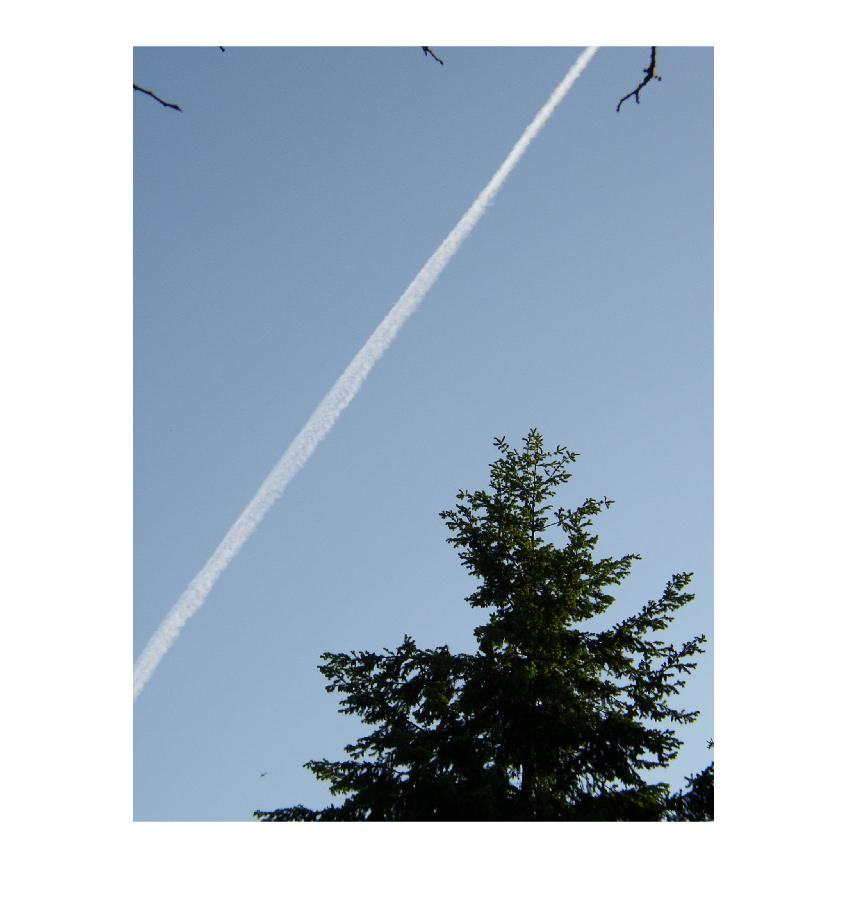
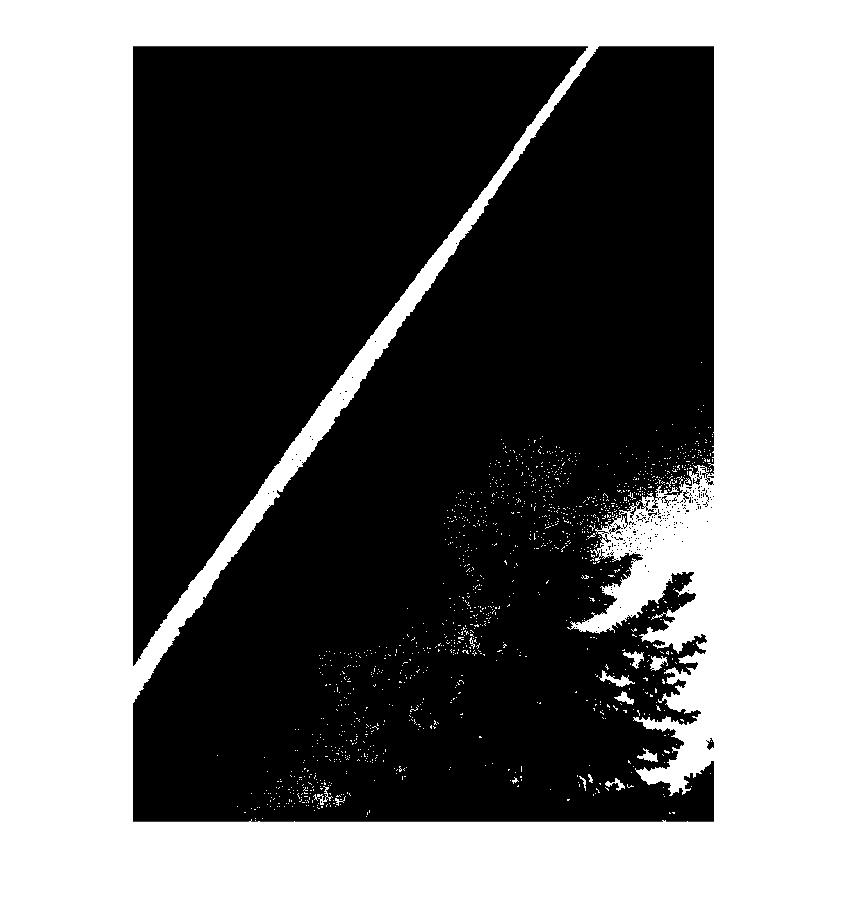
grayscalue function

diff --git a/ContrailsR.m b/ContrailsR.m
@@ -10,33 +10,31 @@ end
 function contractImage(imageInput)
 
 imageSize = size(imageInput);
-[red, green, blue] = getColorLayer(imageInput);
+garyValue = garyscale(imageInput);
 
 length = imageSize(1);
 width = imageSize(2);
-%redMean = mean(mean(red))*1.3;
-%blueMean = mean(mean(blue))*1.3;
-%greenMean = mean(mean(green))*1.3;
+garyAverage = mean(mean(garyValue))*1.3;
 
-map = java.util.HashMap;
-location = [1,2];
-color = [0, 255, 26];
-map.put(location, color);
+%map = java.util.HashMap;
+%color = 67;
+%location = [1 2];
+%map.put(color, location);
 
-answer = map.get([1,2]);
+%answer = map.get(67);
 
 for i = 1:length
     for j = 1:width
       
-%        if (red(i,j)<redMean||blue(i,j)<blueMean||green(i,j)<greenMean)
-%            imageInput(i,j,1)=0; 
-%            imageInput(i,j,2)=0; 
-%            imageInput(i,j,3)=0; 
-%        else
-%            imageInput(i,j,1)=255; 
-%            imageInput(i,j,2)=255; 
-%            imageInput(i,j,3)=255; 
-%        end
+        if (garyValue(i,j)<garyAverage)
+            imageInput(i,j,1)=0; 
+            imageInput(i,j,2)=0; 
+            imageInput(i,j,3)=0; 
+        else
+            imageInput(i,j,1)=255; 
+            imageInput(i,j,2)=255; 
+            imageInput(i,j,3)=255; 
+        end
     end
 end
 
@@ -45,8 +43,9 @@ imshow(imageInput);
 print output.jpg -djpeg
 end
 
-function [red, green, blue] = getColorLayer(imageInput)
+function [intensity] = garyscale(imageInput)
     red=squeeze(imageInput(:,:,1));
     green=squeeze(imageInput(:,:,2));
-    blue=squeeze(imageInput(:,:,3));    
+    blue=squeeze(imageInput(:,:,3)); 
+    intensity = 0.2989.*red + 0.5870.*green + 0.1140.*blue;
 end
